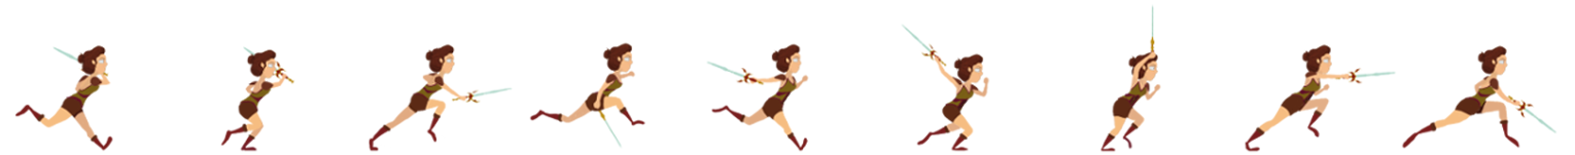
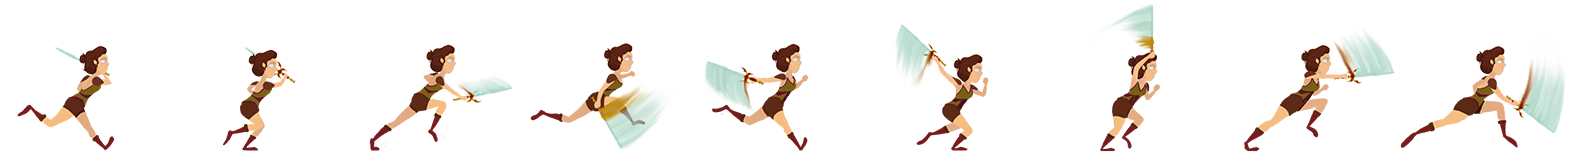
Added and changed some attacking functionality, speed and more...

diff --git a/core/src/mx/com/nullpointer/levels/LevelZero.java b/core/src/mx/com/nullpointer/levels/LevelZero.java
@@ -90,8 +90,8 @@ public class LevelZero extends GenericLevel {
         Texture objectTexture = assetManager.get("map/bookOneT.png");
         objectsOne = new Sprite(objectTexture);
         objectsTwo = new Sprite(objectTexture);
-        objectsOne.setPosition(0,-130);
-        objectsTwo.setPosition(objectsOne.getWidth(),-130);
+        objectsOne.setPosition(0,-40);
+        objectsTwo.setPosition(objectsOne.getWidth(),-40);
     }
 
 
@@ -121,7 +121,7 @@ public class LevelZero extends GenericLevel {
                 if(laurence.getMovementState()== MainCharacter.MovementState.RUNNING
                         || laurence.getMovementState() == MainCharacter.MovementState.STANDING)
                     laurence.setMovementState(MainCharacter.MovementState.DODGING);
-                if(laurence.getMovementState() == MainCharacter.MovementState.FALLING)
+                if(laurence.getMovementState() == MainCharacter.MovementState.FALLING || laurence.getMovementState() == MainCharacter.MovementState.JUMPING)
                     laurence.quickFall();
 
             }

diff --git a/core/src/mx/com/nullpointer/levels/LevelOne.java b/core/src/mx/com/nullpointer/levels/LevelOne.java
@@ -77,8 +77,8 @@ public class LevelOne extends GenericLevel {
         Texture objectTexture = assetManager.get("map/bookOneT.png");
         objectsOne = new Sprite(objectTexture);
         objectsTwo = new Sprite(objectTexture);
-        objectsOne.setPosition(0,-130);
-        objectsTwo.setPosition(objectsOne.getWidth(),-130);
+        objectsOne.setPosition(0,-40);
+        objectsTwo.setPosition(objectsOne.getWidth(),-40);
 
     }
 
@@ -109,7 +109,7 @@ public class LevelOne extends GenericLevel {
                 if(laurence.getMovementState()== MainCharacter.MovementState.RUNNING
                         || laurence.getMovementState() == MainCharacter.MovementState.STANDING)
                     laurence.setMovementState(MainCharacter.MovementState.DODGING);
-                if(laurence.getMovementState() == MainCharacter.MovementState.FALLING)
+                if(laurence.getMovementState() == MainCharacter.MovementState.FALLING || laurence.getMovementState() == MainCharacter.MovementState.JUMPING)
                     laurence.quickFall();
 
             }

diff --git a/core/src/mx/com/nullpointer/utils/MainCharacter.java b/core/src/mx/com/nullpointer/utils/MainCharacter.java
@@ -17,7 +17,7 @@ public class MainCharacter extends GameObject
     private Animation runningAnimation,jumpingAnimation,dodgingAnimation, attackingAnimation;
     private float timerRunning, timerAction;
     private float x,y; //Coordenadas de dónde se moverá
-    private float VY = 20, VX=300,G=30;
+    private float VY = 20, VX=400,G=30;
     private float animationSpeed = 0.04f;
 
 
@@ -81,6 +81,9 @@ public class MainCharacter extends GameObject
         // Quieto
         sprite = new Sprite(standingTexture);
         sprite.setPosition(0,64);
+
+        //Start speed
+        //TODO after we get the preferences
 
         //Posición
         x = GenericScreen.WIDTH /8;
